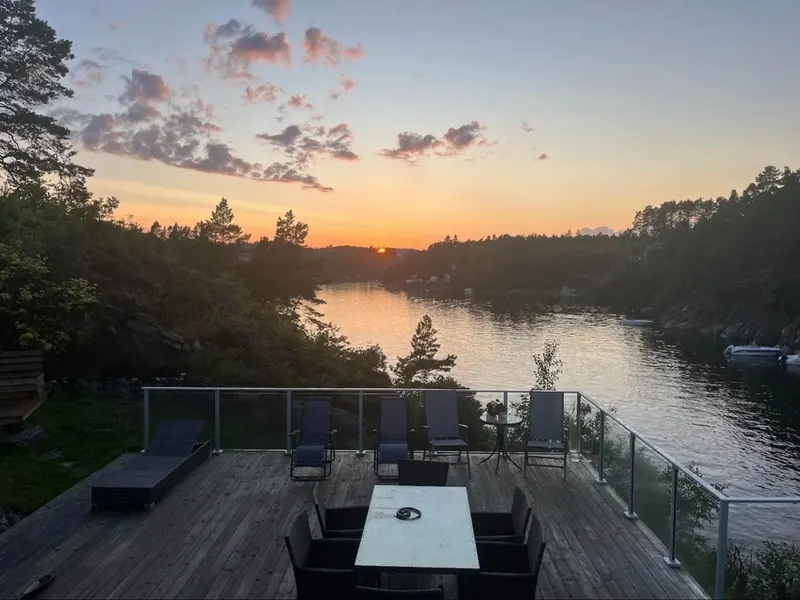
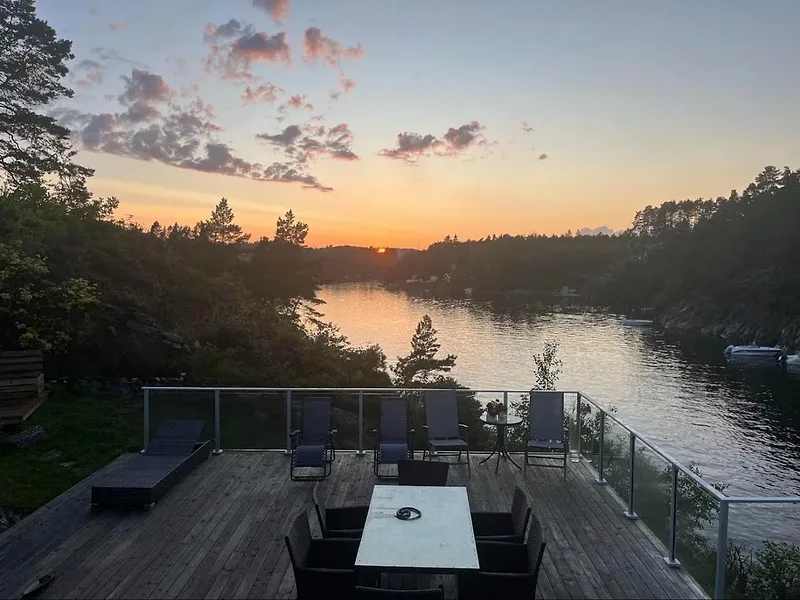
Forsiden: tre bilder i rad, og forsidebildene laget på nytt i bedre kvalitet
Prosjekteier sa ja til å bruke bildene fra hytta i Høvåg fritt og til de tre
bildene i rad fra utkastet (2026-11-27), og ba om at bildene skal se bra ut.

- Tre bilder mellom stegene og de tre svarene: badstue, stue og bukt. På mobil
  står badstua stort og de to andre ved siden av hverandre under.
- Stua er beskåret så TV og ledninger ikke er med. Badstua er et liggende
  utsnitt av et stående bilde.
- Alle forsidebildene finnes i to bredder. Det store er kodet med høyere
  kvalitet enn før, og det lille er skjerpet litt etter forminskingen.
- Reglene for bildene i AGENTS.md og README.md gjelder nå alle fire.

Claude-Session: https://claude.ai/code/session_01P5QrxeVc3dBe47nVE1jaVp

diff --git a/src/components/front-photo.tsx b/src/components/front-photo.tsx
@@ -1,30 +1,46 @@
+import saunaLarge from "@/assets/forside/badstue-1086.webp";
+import saunaSmall from "@/assets/forside/badstue-600.webp";
+import bayLarge from "@/assets/forside/bukt-1200.webp";
+import baySmall from "@/assets/forside/bukt-600.webp";
 import large from "@/assets/forside/sommerkveld-1485.webp";
 import small from "@/assets/forside/sommerkveld-800.webp";
+import roomLarge from "@/assets/forside/stue-1200.webp";
+import roomSmall from "@/assets/forside/stue-600.webp";
 
-/**
- * Bildet på forsiden og målgruppesidene: et ekte fotografi fra en hytte,
- * rammet inn som et papirbilde limt inn i en hyttebok.
- *
- * Bildet er åpent for alle, også uten innlogging. Derfor gjelder to regler:
- * det skal være tatt på en hytte prosjekteierne selv låner bort, og verken
- * bildet eller teksten under skal si hvor hytta ligger. Hyttene i tjenesten
- * er private, og forsiden skal ikke vise noe annet.
+/*
+ * Bildene på forsiden og målgruppesidene er ekte fotografier fra hytter.
+ * De er åpne for alle, også uten innlogging. Derfor gjelder to regler:
+ * bildene skal være tatt på eller ved en hytte prosjekteierne selv låner
+ * bort, og verken bildene eller tekstene til dem skal si hvor hytta ligger.
+ * Hyttene i tjenesten er private, og forsiden skal ikke vise noe annet.
+ * Prosjekteier har sagt ja til disse fire bildene (2026-11-27). Et nytt bilde
+ * trenger et nytt ja.
  *
  * Filene importeres herfra og ligger derfor under /_next/static, som
- * innloggingssjekken i src/proxy.ts slipper forbi. Legges bildet i public/,
+ * innloggingssjekken i src/proxy.ts slipper forbi. Legges et bilde i public/,
  * blir den som ikke er logget inn, sendt til innlogging i stedet for å få det.
+ *
+ * Hvert bilde finnes i to bredder, så mobilen slipper å hente det store.
+ * Filene er allerede forminsket og hentes direkte, ikke gjennom
+ * bildeoptimaliseringen i Next.
  */
+
+type Source = { src: string; width: number; height: number };
+
+function srcSet(a: Source, b: Source) {
+  return `${a.src} ${a.width}w, ${b.src} ${b.width}w`;
+}
+
+/** Hovedbildet: rammet inn som et papirbilde limt inn i en hyttebok. */
 export function FrontPhoto({ className = "" }: { className?: string }) {
   return (
     <figure
       className={`rotate-1 rounded-sm bg-white p-3 pb-4 shadow-print sm:p-4 sm:pb-5 ${className}`}
     >
-      {/* Filene er allerede laget i to størrelser, så de hentes direkte og
-          ikke gjennom bildeoptimaliseringen i Next. */}
       {/* eslint-disable-next-line @next/next/no-img-element */}
       <img
         src={large.src}
-        srcSet={`${small.src} ${small.width}w, ${large.src} ${large.width}w`}
+        srcSet={srcSet(small, large)}
         sizes="(min-width: 1024px) 45vw, 100vw"
         width={large.width}
         height={large.height}
@@ -36,5 +52,56 @@ export function FrontPhoto({ className = "" }: { className?: string }) {
         En sommerkveld på en av hyttene
       </figcaption>
     </figure>
+  );
+}
+
+/**
+ * Tre bilder lenger ned på forsiden: det man ser fram til på en hytte. På
+ * mobil står det første stort og de to andre ved siden av hverandre under.
+ * På større skjermer står alle tre på rad, med badstua i midten.
+ *
+ * Ikke en liste: bildene er stemning, ikke punkter å lese gjennom.
+ */
+export function FrontPhotoRow({ className = "" }: { className?: string }) {
+  const frame = "block aspect-[4/3] w-full rounded-2xl bg-paper object-cover";
+  return (
+    <div className={`grid grid-cols-2 gap-3 sm:grid-cols-3 sm:gap-5 ${className}`}>
+      {/* eslint-disable-next-line @next/next/no-img-element */}
+      <img
+        src={saunaLarge.src}
+        srcSet={srcSet(saunaSmall, saunaLarge)}
+        sizes="(min-width: 640px) 33vw, 100vw"
+        width={saunaLarge.width}
+        height={saunaLarge.height}
+        alt="Badstue med vindu ut mot sjøen og to småbåter"
+        loading="lazy"
+        decoding="async"
+        className={`${frame} col-span-2 sm:order-2 sm:col-span-1`}
+      />
+      {/* eslint-disable-next-line @next/next/no-img-element */}
+      <img
+        src={roomLarge.src}
+        srcSet={srcSet(roomSmall, roomLarge)}
+        sizes="(min-width: 640px) 33vw, 50vw"
+        width={roomLarge.width}
+        height={roomLarge.height}
+        alt="Lys stue med sofa, lenestol og salongbord"
+        loading="lazy"
+        decoding="async"
+        className={`${frame} sm:order-1`}
+      />
+      {/* eslint-disable-next-line @next/next/no-img-element */}
+      <img
+        src={bayLarge.src}
+        srcSet={srcSet(baySmall, bayLarge)}
+        sizes="(min-width: 640px) 33vw, 50vw"
+        width={bayLarge.width}
+        height={bayLarge.height}
+        alt="Bukt med svaberg og strand under tung himmel"
+        loading="lazy"
+        decoding="async"
+        className={`${frame} sm:order-3`}
+      />
+    </div>
   );
 }

diff --git a/src/app/page.tsx b/src/app/page.tsx
@@ -1,7 +1,7 @@
 import { PublicShell } from "@/components/public-shell";
 import Link from "next/link";
 import { ButtonLink, Panel } from "@/components/ui";
-import { FrontPhoto } from "@/components/front-photo";
+import { FrontPhoto, FrontPhotoRow } from "@/components/front-photo";
 import { APP_NAME, TAGLINE, WHAT_IT_IS } from "@/lib/brand";
 
 /**
@@ -72,6 +72,9 @@ export default function LandingPage() {
       <p className="mt-5 max-w-[52ch] text-lg text-muted">
         Den som låner, betaler et bidrag til strøm og faste kostnader med Vipps. Du setter prisen.
       </p>
+
+      {/* Tre bilder av det man ser fram til. Reglene for bildene står i komponenten. */}
+      <FrontPhotoRow className="mt-14 lg:mt-20" />
 
       {/* Tre korte svar, ved siden av hverandre på stor skjerm. */}
       <div className="grid gap-x-10 lg:mt-6 lg:grid-cols-3">

diff --git a/AGENTS.md b/AGENTS.md
@@ -19,7 +19,7 @@ Pilot for en lukket tjeneste der hytteeiere låner ut hytta til folk de kjenner.
 - Forsiden sier først og tydelig at tjenesten bare er for inviterte, og at ingen kan registrere seg selv. Den som ikke er invitert, får to veier, i denne rekkefølgen: be noen som har hytte her, om en invitasjon, eller be om invitasjon i skjemaet (`/be-om-invitasjon`). Bare eiere og administratorer kan invitere, så teksten skal ikke love mer. Lov aldri plass, rask vekst eller mange hytter.
 - Be om invitasjon (`src/lib/services/join-requests.ts`, valgt av prosjekteier 2026-11-27): skjemaet gir aldri adgang. Bare en administrator kan gjøre en rad i `join_request` om til en invitasjon, og da den vanlige invitasjonen uten hytte (`inviteAccount`). Alle kan spørre, med eller uten hytte, og administratorene velger. Adressen i skjemaet er ikke bekreftet: send aldri e-post til den før en administrator har invitert, heller ikke kvittering eller nei. Skjemaet svarer likt enten adressen er ny, allerede med, invitert eller har spurt før. Bare administratorene ser listen, og varselet går bare til `ADMIN_EMAILS`. Navn og tekst renses med `quoteForNotice` før de lagres. Et nei slettes etter 30 dager og en ubesvart etter 90, av jobben `/jobber/rydding` som kjøres hvert døgn (`vercel.json`). Lover personvernsiden en frist for sletting, skal en jobb holde den: stol aldri på at noen tilfeldigvis bruker tjenesten. Kvitteringen sier at den som ikke har hørt fra oss innen 14 dager, ikke får plass nå (`ANSWER_WITHIN_DAYS` i `src/lib/join-request-limits.ts`). Tallet er et løfte til alle som spør: endre det aldri uten at prosjekteier har bestemt det. Administratorene ser fristen ved hver person og får én påminnelse når noen har ventet i tre dager (`remindAdminsOfWaiting`, jobben `/jobber/venter-pa-svar`). Hver person gir høyst én påminnelse, og den nevner bare antall og frist, aldri navn eller tekst. Send aldri flere påminnelser om samme person. Når skjemaet er sendt, flyttes tastaturfokus til kvitteringen, og knappen gjøres aldri `disabled` mens den sender, for da mister tastaturbrukere plassen sin. Skjemaet bruker ikke ordet «forespørsel», som inne i tjenesten betyr å spørre om å låne en hytte.
 - Utseendet (valgt av prosjekteier 2026-11-27): varmt, som inne i en hytte. Fargene står bare i `@theme` i `src/app/globals.css`: papirtone i bunnen (`ground`), lysere kort (`surface`), varm brunsvart tekst og varme linjer. Skriv aldri en fargekode rett inn i en klasse, og bruk ikke `bg-white` til annet enn skrivefelt og rammen rundt forsidebildet. `h1` og `h2` står i seriff (Fraunces). Regelen ligger utenfor lagene til Tailwind og går foran `font-bold` på de to nivåene, så sett bare størrelse der. Hyttenavn i kort får `font-display`. Ikke pynt med rosemaling, trestruktur eller håndskrift: følelsen skal komme fra ekte bilder og fra folk.
-- Forsidebildet (`src/components/front-photo.tsx`) er åpent for alle. Det skal være tatt på en hytte prosjekteierne selv låner bort, og verken bildet eller teksten under skal si hvor hytta ligger. Filene importeres fra `src/assets/forside/`. Legg dem ikke i `public/`: innloggingssjekken i `src/proxy.ts` sender da den som ikke er logget inn, til innlogging i stedet for å gi bildet.
+- Bildene på forsiden (`src/components/front-photo.tsx`) er åpne for alle. De skal være tatt på eller ved en hytte prosjekteierne selv låner bort, og verken bildene eller tekstene til dem skal si hvor hytta ligger. Prosjekteier har sagt ja til de fire som ligger der (2026-11-27). Et nytt bilde trenger et nytt ja. Filene importeres fra `src/assets/forside/`. Legg dem ikke i `public/`: innloggingssjekken i `src/proxy.ts` sender da den som ikke er logget inn, til innlogging i stedet for å gi bildet.
 - Regler og tilgangssjekker ligger i `src/lib/services/`. Sider og skjemaer kaller tjenestelaget og sjekker ikke tilgang selv.
 - En hytte er privat til eieren deler den. Innsyn i en annens hytte følger av en rad i `cabin_access`, som bare eieren kan lage. Eneste unntak: administratorer ser alle hytter slik lånerne ser dem (`access: "admin"` i `getVisibleCabin`, valgt av prosjekteier 2026-11-18), men kan ikke spørre om lån uten en rad i `cabin_access`. Legg aldri inn en regel som gir innsyn til «alle hytteeiere» eller venners venner.
 - `/admin/hytter` viser navn, sted, eier og antall for alle hytter, med lenke til hyttesiden. Utvid aldri den listen med adresse, meldinger eller hvem som har sett, spurt eller lånt. Reglene ligger i `src/lib/services/cabin-stats.ts`.

diff --git a/README.md b/README.md
@@ -292,10 +292,11 @@ Regelen for ny funksjonalitet: tilgangssjekken skal ligge i tjenestelaget
   ligger i `node_modules/next/dist/docs/`.
 - **Utseendet settes ett sted.** Farger, skrifter og skygger står i `@theme` i
   `src/app/globals.css`. Siden har en lys papirtone, kortene er et hakk lysere, og
-  overskriftene (`h1` og `h2`) står i seriffen Fraunces. Forsidebildet er et ekte
-  bilde fra en hytte og ligger i `src/assets/forside/`. Byttes det, lages det i
-  to bredder (800 og om lag 1500 punkter, WebP) og importeres i
-  `src/components/front-photo.tsx`. Reglene for hva bildet kan vise, står der.
+  overskriftene (`h1` og `h2`) står i seriffen Fraunces. Bildene på forsiden er
+  ekte bilder fra hytter og ligger i `src/assets/forside/`. Byttes et bilde, lages
+  det i to bredder (WebP, om lag 600 til 800 og 1100 til 1500 punkter) og
+  importeres i `src/components/front-photo.tsx`. Reglene for hva bildene kan vise,
+  står der.
 - **Vercel setter serveren på pause mellom forespørsler.** Arbeid mot databasen
   som ikke er avsluttet da, blir stående halvferdig, og neste besøk får feil som
   «Authentication timed out». `src/lib/db/pool.ts` holder derfor serveren våken
